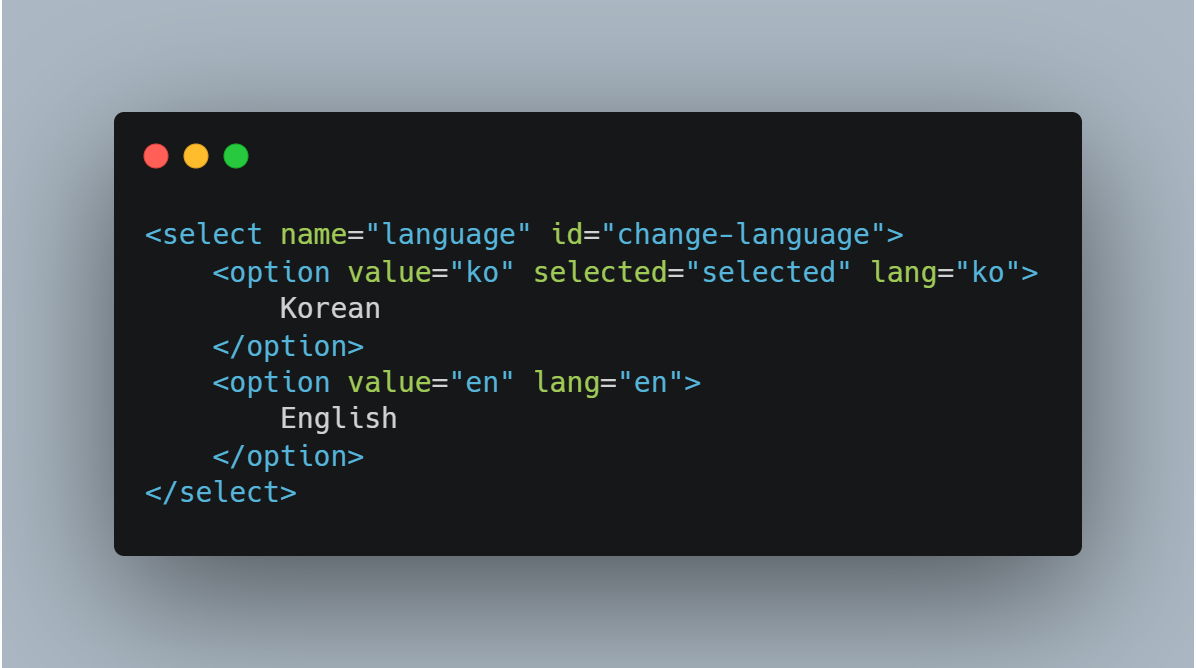
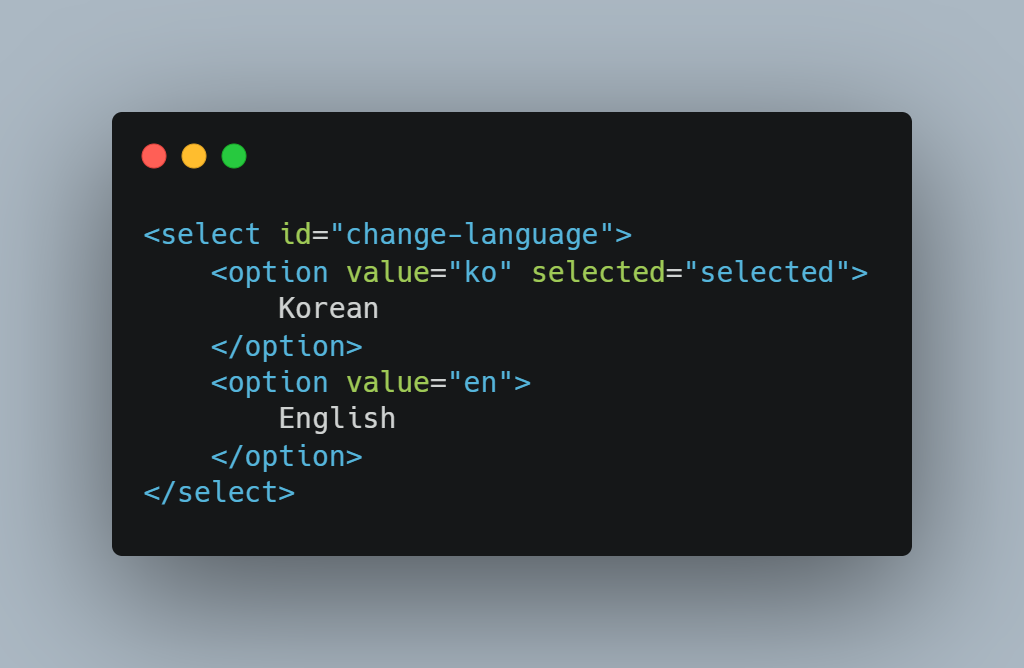
Change: Select문 쓸모없는 코드 제외

Changed region(s): [[0.0938, 0.1497, 0.9062, 0.8383]]

diff --git a/example.html b/example.html
@@ -35,11 +35,11 @@
         <span class="en">
             Language:
         </span>
-        <select name="language" id="change-language">
-            <option value="ko" selected="selected" lang="ko">
+        <select id="change-language">
+            <option value="ko" selected="selected">
                 Korean
             </option>
-            <option value="en" lang="en">
+            <option value="en">
                 English
             </option>
         </select> <br>

diff --git a/README.md b/README.md
@@ -43,12 +43,12 @@ There are a lot of approaches to internationalisation, but this project offers u
     Simple Multi Language with Vanilla Javascript
 </h2> 
 
-<select name="language" id="change-language">
-	<option value="ko" selected="selected" lang="ko">
+<select id="change-language">
+	<option value="ko" selected="selected">
 		Korean
 	</option>
-	<option value="en" lang="en">
-      	English
+	<option value="en">
+		English
 	</option>
 </select>
 ```
